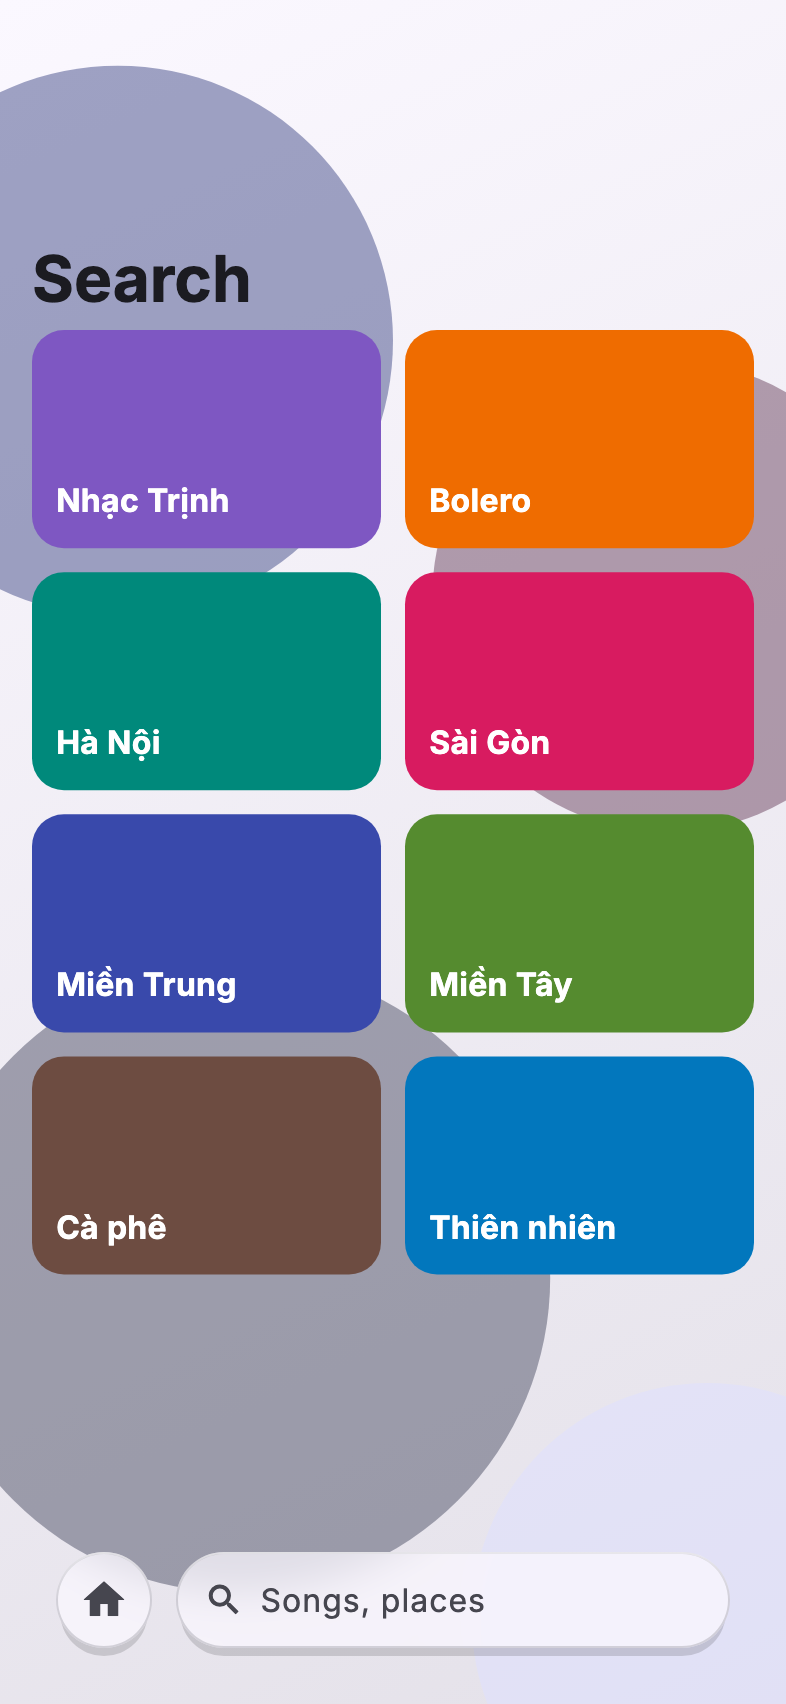
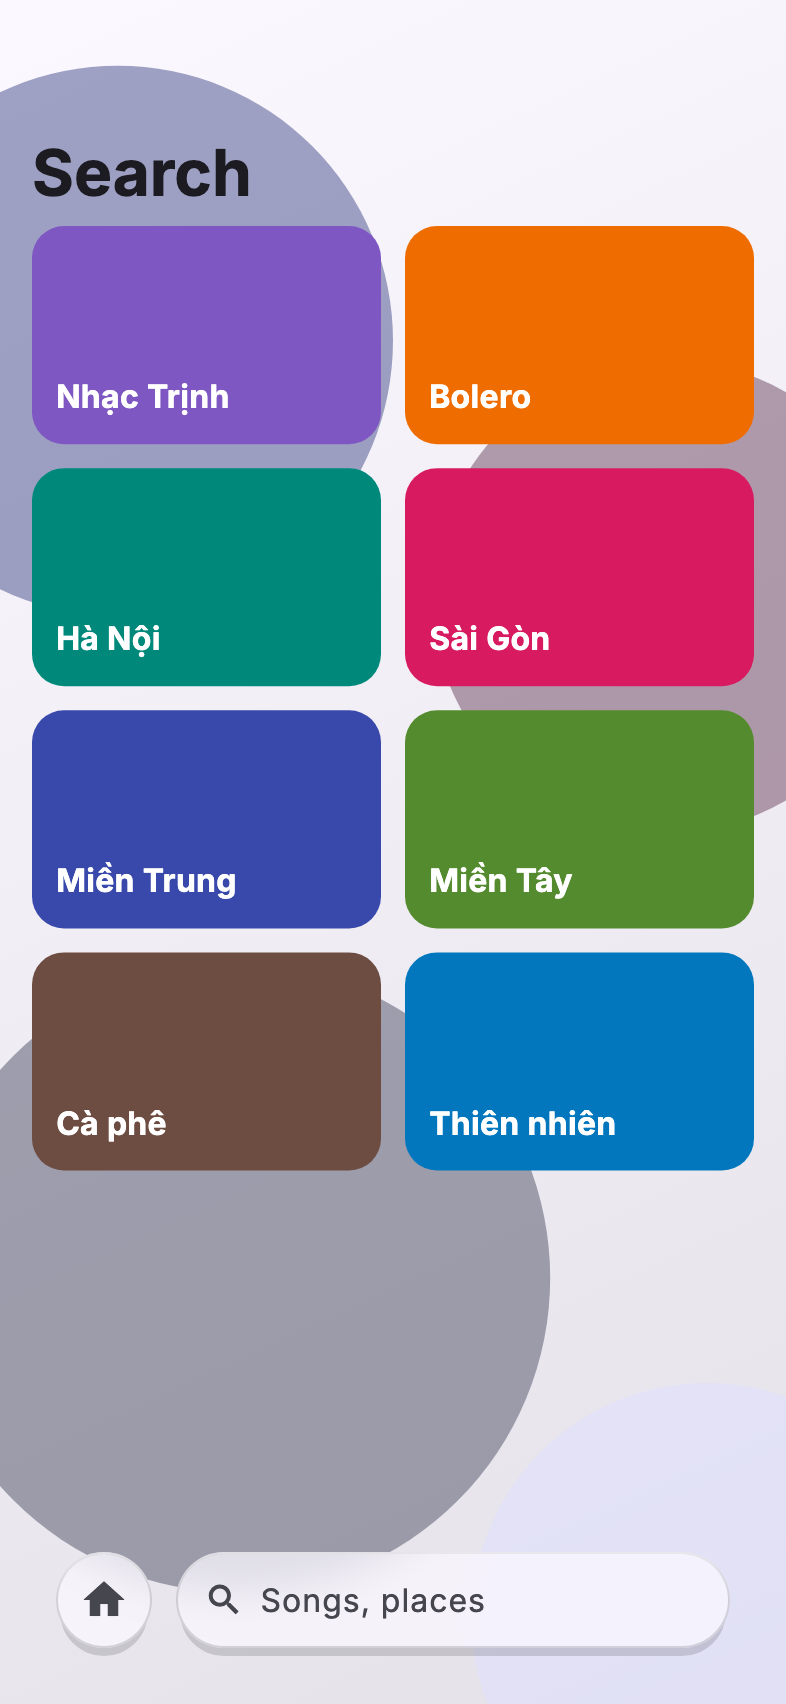
fix(ios): a root page's large title sits on the bar row, as in Apple Music (VK-407)
The search root used largeTitleDisplayMode .always, which puts the large
title on a 52pt row under the bar: about 60pt lower than Music, whose
title shares the bar row right under the status bar. It is UIKit's
.inline mode. The Flutter page bar mirrors it: a root page's large title
on the bar row, a pushed page's on its own row (UIKit turns .inline into
.always under a back button). The phone search golden is regenerated.

diff --git a/liquid_shell/lib/src/pages/page_bar.dart b/liquid_shell/lib/src/pages/page_bar.dart
@@ -6,7 +6,8 @@ import 'package:liquid_shell/src/shell/shell_scope.dart';
 /// Height of the bar row (iOS 26: 54pt).
 const double kPageBarExtent = 54;
 
-/// Height of the large title row.
+/// Height of the large title row under the bar row (a pushed page's large
+/// title; a root page's sits on the bar row).
 const double kLargeTitleExtent = 52;
 
 /// Fade height of the scroll-edge effect under the bar.
@@ -14,6 +15,9 @@ const double _kEdgeFade = 24;
 
 /// A `LiquidPage`'s bar where no native bar draws it (spec P3b §9.5): the
 /// glass back circle, the inline or large title, and a scroll-edge fade.
+/// A root page's large title sits on the bar row, leading, as UIKit's
+/// `.inline` large title and Apple Music draw it; under a back button it
+/// takes its own row below the bar, as UIKit's `.inline` turns `.always`.
 /// Its child gets the bar's height added to its top padding, so
 /// `LiquidShellScope.contentPaddingOf` keeps content below it.
 class FlutterPageBar extends StatelessWidget {
@@ -48,9 +52,36 @@ class FlutterPageBar extends StatelessWidget {
     final theme = Theme.of(context);
     // Below the shell's own chrome at the top (a Flutter top tab bar).
     final barTop = LiquidShellScope.contentPaddingOf(context).top;
-    final showLarge = large && !hideLargeTitle;
+    // On the bar row with no back button; on its own row below otherwise.
+    final largeInRow = large && !canPop;
+    final showLargeRow = large && canPop && !hideLargeTitle;
     final bottom =
-        barTop + kPageBarExtent + (showLarge ? kLargeTitleExtent : 0);
+        barTop + kPageBarExtent + (showLargeRow ? kLargeTitleExtent : 0);
+    final largeStyle = theme.textTheme.headlineLarge?.copyWith(
+      fontWeight: FontWeight.w700,
+    );
+    final Widget rowTitle;
+    if (largeInRow && !hideLargeTitle) {
+      rowTitle = Text(
+        title,
+        maxLines: 1,
+        overflow: TextOverflow.ellipsis,
+        style: largeStyle,
+      );
+    } else if (large) {
+      // Hidden by an active search, or on its own row below.
+      rowTitle = const SizedBox.shrink();
+    } else {
+      rowTitle = Text(
+        title,
+        textAlign: TextAlign.center,
+        maxLines: 1,
+        overflow: TextOverflow.ellipsis,
+        style: theme.textTheme.titleMedium?.copyWith(
+          fontWeight: FontWeight.w600,
+        ),
+      );
+    }
     final padded = media.copyWith(
       padding: media.padding.copyWith(top: bottom),
       viewPadding: media.viewPadding.copyWith(top: bottom),
@@ -95,19 +126,7 @@ class FlutterPageBar extends StatelessWidget {
                 children: [
                   const SizedBox(width: 16),
                   if (canPop) const LiquidBackButton(),
-                  Expanded(
-                    child: large
-                        ? const SizedBox.shrink()
-                        : Text(
-                            title,
-                            textAlign: TextAlign.center,
-                            maxLines: 1,
-                            overflow: TextOverflow.ellipsis,
-                            style: theme.textTheme.titleMedium?.copyWith(
-                              fontWeight: FontWeight.w600,
-                            ),
-                          ),
-                  ),
+                  Expanded(child: rowTitle),
                   // Keeps an inline title centred against the back button.
                   SizedBox(width: canPop ? 16 + LiquidBackButton.size : 16),
                 ],
@@ -115,7 +134,7 @@ class FlutterPageBar extends StatelessWidget {
             ),
           ),
         ),
-        if (showLarge)
+        if (showLargeRow)
           PositionedDirectional(
             top: barTop + kPageBarExtent,
             start: 16,
@@ -128,9 +147,7 @@ class FlutterPageBar extends StatelessWidget {
                   title,
                   maxLines: 1,
                   overflow: TextOverflow.ellipsis,
-                  style: theme.textTheme.headlineLarge?.copyWith(
-                    fontWeight: FontWeight.w700,
-                  ),
+                  style: largeStyle,
                 ),
               ),
             ),

diff --git a/liquid_shell/test/widget/liquid_page_test.dart b/liquid_shell/test/widget/liquid_page_test.dart
@@ -237,6 +237,61 @@ void main() {
     expect(find.text('Search'), findsOneWidget);
   });
 
+  testWidgets("a root page's large title sits on the bar row, as UIKit's "
+      'inline large title (Apple Music): content starts under that row', (
+    tester,
+  ) async {
+    EdgeInsets? padding;
+    await _pump(
+      tester,
+      home: LiquidPage(
+        title: 'Search',
+        child: Builder(
+          builder: (context) {
+            padding = MediaQuery.paddingOf(context);
+            return const SizedBox.expand();
+          },
+        ),
+      ),
+    );
+    final title = tester.getRect(
+      find.descendant(
+        of: find.byType(FlutterPageBar),
+        matching: find.text('Search'),
+      ),
+    );
+    expect(title.top, greaterThanOrEqualTo(0));
+    expect(title.bottom, lessThanOrEqualTo(kPageBarExtent));
+    expect(title.left, 16, reason: 'leading, like UIKit');
+    expect(padding!.top, kPageBarExtent);
+  });
+
+  testWidgets('a pushed page with a large title keeps it under the bar row '
+      '(UIKit: inline turns into always under a back button)', (tester) async {
+    await _pump(tester);
+    tester
+        .state<NavigatorState>(find.byType(Navigator))
+        .push(
+          MaterialPageRoute<void>(
+            builder: (_) => const LiquidPage(
+              title: 'Detail',
+              largeTitle: true,
+              child: SizedBox.expand(),
+            ),
+          ),
+        )
+        .ignore();
+    await tester.pumpAndSettle();
+    final title = tester.getRect(
+      find.descendant(
+        of: find.byType(FlutterPageBar),
+        matching: find.text('Detail'),
+      ),
+    );
+    expect(title.top, greaterThanOrEqualTo(kPageBarExtent));
+    expect(find.byType(LiquidBackButton), findsOneWidget);
+  });
+
   testWidgets('the bar titles carry a text style without a Material above', (
     tester,
   ) async {
@@ -428,7 +483,7 @@ void main() {
     expect(find.bySemanticsLabel('A'), findsNothing);
   });
 
-  testWidgets('content scrolled up fades out above the large title row', (
+  testWidgets('content scrolled up fades out under the bar row', (
     tester,
   ) async {
     const red = Color(0xFFFF0000);
@@ -459,10 +514,10 @@ void main() {
     int green(int x, int y) => bytes.getUint8((y * image.width + x) * 4 + 1);
 
     final x = image.width - 8;
-    // The bar row (0–54) and the large title row (54–106) show no content.
+    // The bar row (0–54), which holds the large title, shows no content.
     expect(green(x, 20), 255, reason: 'bar row');
-    expect(green(x, 60), 255, reason: 'top of the large title row');
     // Below the bar the content is opaque.
+    expect(green(x, 80), 0, reason: 'content right below the bar');
     expect(green(x, 200), 0, reason: 'content below the bar');
   });
 }

diff --git a/liquid_shell/example/ios/RunnerTests/RunnerTests.swift b/liquid_shell/example/ios/RunnerTests/RunnerTests.swift
@@ -1458,8 +1458,28 @@ extension NativeTabsTests {
       XCTAssertEqual(item.largeTitleDisplayMode, .never)
     } else {
       XCTAssertEqual(item.preferredSearchBarPlacement, .automatic)
-      XCTAssertEqual(item.largeTitleDisplayMode, .always)
+      XCTAssertEqual(item.largeTitleDisplayMode, .inline)
     }
+  }
+
+  /// Apple Music's large title shares the bar row with its trailing items,
+  /// right under the status bar: UIKit's `.inline` large title. `.always`
+  /// puts it on a 52pt row below the bar, about 60pt lower (Task 12).
+  func testTheSearchRootsLargeTitleSharesTheBarRow() throws {
+    try requirePhone()
+    let tabs = try installedSearchShell(selected: 2)
+    let nav = try XCTUnwrap(tabs.navControllers[2])
+    let item = nav.rootHost.navigationItem
+    XCTAssertEqual(item.largeTitleDisplayMode, .inline)
+    let height = nav.navigationBar.frame.height
+    XCTAssertEqual(
+      tabs.flutter.view.safeAreaInsets.top, nav.navigationBar.frame.maxY, accuracy: 0.5,
+      "Flutter's content starts right under the bar")
+    item.largeTitleDisplayMode = .never
+    settle()
+    XCTAssertEqual(
+      nav.navigationBar.frame.height, height, accuracy: 0.5,
+      "as tall as a bar with no large title: no title row under the bar row")
   }
 
   func testOnlyAnIPhoneOnIOS27MakesTheSearchTabProminent() throws {

diff --git a/liquid_shell/example/ios/RunnerUITests/SearchUITests.swift b/liquid_shell/example/ios/RunnerUITests/SearchUITests.swift
@@ -118,6 +118,21 @@ final class SearchUITests: XCTestCase {
     XCTAssertTrue(flutterRow(app, "Hồ Hoàn Kiếm").waitForExistence(timeout: 10), "the results")
   }
 
+  /// Apple Music's large title shares the bar row, right under the status
+  /// bar (UIKit's `.inline`), not a row below it (Task 12 side by side).
+  func testTheSearchRootsLargeTitleSitsOnTheBarRow() throws {
+    try XCTSkipUnless(UIDevice.current.userInterfaceIdiom == .phone, "iPhone only")
+    let app = launch()
+    let tab = searchTabButton(app)
+    XCTAssertTrue(tab.waitForExistence(timeout: timeout))
+    tab.tap()
+    let bar = app.navigationBars["Search"]
+    let title = bar.staticTexts["Search"]
+    XCTAssertTrue(title.waitForExistence(timeout: 10), "the native large title")
+    XCTAssertEqual(bar.frame.height, 54, accuracy: 1, "no title row under the bar row")
+    XCTAssertLessThanOrEqual(title.frame.maxY, bar.frame.maxY + 0.5, "on the bar row")
+  }
+
   func testTheCollapsedCircleReturnsToThePreviousTab() throws {
     try XCTSkipUnless(UIDevice.current.userInterfaceIdiom == .phone, "iPhone only")
     let app = launch()

diff --git a/liquid_shell_ios/ios/liquid_shell_ios/Sources/liquid_shell_ios/ShellNavController.swift b/liquid_shell_ios/ios/liquid_shell_ios/Sources/liquid_shell_ios/ShellNavController.swift
@@ -215,6 +215,8 @@ final class PageHostController: UIViewController {
     navigationItem.preferredSearchBarPlacement =
       style.placement == .stacked ? .stacked : .automatic
     if let hides = style.hidesWhenScrolling { navigationItem.hidesSearchBarWhenScrolling = hides }
-    navigationItem.largeTitleDisplayMode = style.largeTitle ? .always : .never
+    // `.inline`: the large title on the bar row, right under the status
+    // bar, as Apple Music draws it; `.always` adds a 52pt row under the bar.
+    navigationItem.largeTitleDisplayMode = style.largeTitle ? .inline : .never
   }
 }

diff --git a/docs/specs/2026-10-10-p3b-search-tab-design.md b/docs/specs/2026-10-10-p3b-search-tab-design.md
@@ -450,8 +450,10 @@ The tab's `UISearchTab` provider returns the `ShellNavController`, built once pe
 | `prominentTabIdentifier` | — (API is 27+) | `UISearchTab.identifier` (Q10) | — | nil (Q1: the system look) |
 | `preferredSearchBarPlacement` | `.automatic` (tab-hosted at the bottom) | `.automatic` | `.stacked` | `.stacked` |
 | `hidesSearchBarWhenScrolling` | default | default | false | false |
-| Root `largeTitleDisplayMode` | `.always` (unless `pages[0].largeTitle == false`) | `.always` | `.never` (unless `pages[0].largeTitle == true`) | `.never` |
+| Root `largeTitleDisplayMode` | `.inline` (unless `pages[0].largeTitle == false`) | `.inline` | `.never` (unless `pages[0].largeTitle == true`) | `.never` |
 | `obscuresBackgroundDuringPresentation` | false | false | false | false |
+
+`.inline` (iOS 17+), not `.always`: Apple Music's large title sits on the bar row, right under the status bar and level with its trailing items. `.always` adds a 52pt row under the bar, which put our title about 60pt lower (Task 12 side by side). Under a back button UIKit turns `.inline` into `.always`. Pushed pages that ask for a large title keep `.always`.
 
 "iPad" means `userInterfaceIdiom == .pad`, so a narrow iPad window keeps the stacked top field (the video), and an iPhone in landscape keeps the bottom field. The search tab's `title` and `image` come from the destination (`label`, `sfSymbol` when set); otherwise UIKit's localised "Search" and magnifying glass stay. `searchBar.placeholder` is `config.search.placeholder` when set.
 
@@ -628,7 +630,7 @@ The fallback field is one persistent `TextField` (Material, no border, `textInpu
 
 `LiquidPage` without a native bar draws, over its child:
 - a 54pt row at `padding.top`: `LiquidBackButton` at start 16 when `Navigator.canPop`, then the inline title (17pt semibold, centred between the back button and an equal trailing reserve) when the page is not large-titled;
-- for a large-titled page, a large title row (34pt bold, start 16) below that row; it is hidden while `searchPhase == active` (UIKit hides it too);
+- for a large-titled root page (no back button), the large title (34pt bold, start 16) **on that row**, as UIKit's `.inline` mode and Apple Music draw it; for a large-titled pushed page, a large title row below the bar row (UIKit turns `.inline` into `.always` under a back button). Either way it is hidden while `searchPhase == active` (UIKit hides it too);
 - a scroll-edge fade under the bar (a `ShaderMask` gradient over the first 24pt below it), the iOS 26 look without a bar background;
 - the child gets the bar's height added to its `MediaQuery.padding.top`, so `contentPaddingOf` keeps working.
 
